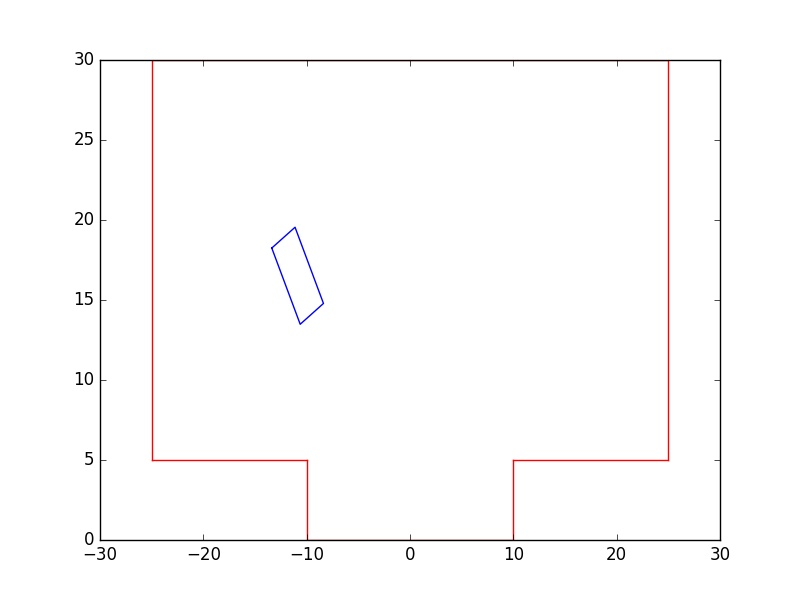
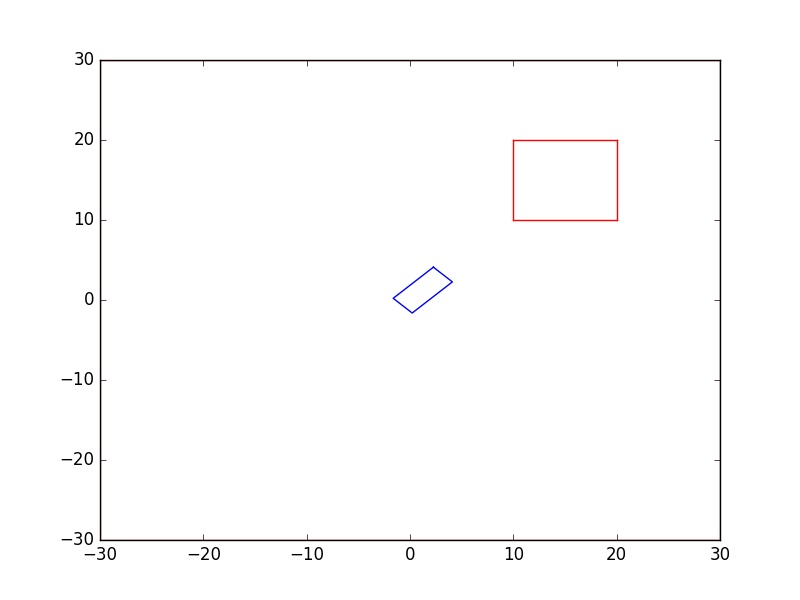
fixed some segfaults; problem with rs path

diff --git a/ReedsShepp/main.cpp b/ReedsShepp/main.cpp
@@ -7,43 +7,58 @@ void TestGridAStar();
 void testCollisionCheck();
 
 int main(int argc, char **argv)
-{ // 1. add obstacle list
+{
+  // testCollisionCheck();
+  // return 0;
+
+  // 1. add obstacle list
   std::vector<Point2D> ObstList;
-  for (int i = -25; i <= 25; ++i)
+
+  for (int i = -30; i <= 30; ++i)
   {
     ObstList.push_back(Point2D(i, 30));
   }
-  for (int i = -10; i <= 10; ++i)
+  for (int i = -30; i <= 30; ++i)
   {
-    ObstList.push_back(Point2D(i, 0));
+    ObstList.push_back(Point2D(30, i));
   }
-  for (int i = -25; i <= -10; ++i)
+  for (int i = -30; i <= 30; ++i)
   {
-    ObstList.push_back(Point2D(i, 5));
+    ObstList.push_back(Point2D(i, -30));
   }
-  for (int i = 10; i <= 25; ++i)
+  for (int i = -30; i <= 30; ++i)
   {
-    ObstList.push_back(Point2D(i, 5));
+    ObstList.push_back(Point2D(-30, i));
   }
-  for (int i = 0; i <= 5; ++i)
+
+  for (int i = 10; i <= 20; ++i)
+  {
+    ObstList.push_back(Point2D(i, 10));
+  }
+  for (int i = 10; i <= 20; ++i)
+  {
+    ObstList.push_back(Point2D(20, i));
+  }
+  for (int i = 10; i <= 20; ++i)
+  {
+    ObstList.push_back(Point2D(i, 20));
+  }
+  for (int i = 10; i <= 20; ++i)
   {
     ObstList.push_back(Point2D(10, i));
-  }
-  for (int i = 0; i <= 5; ++i)
-  {
-    ObstList.push_back(Point2D(-10, i));
   }
 
   // 2. add obstacle lines
   std::vector<std::pair<Point2D, Point2D>> ObstLine;
-  ObstLine.push_back({{-25, 30}, {25, 30}});
-  ObstLine.push_back({{-25, 5}, {-10, 5}});
-  ObstLine.push_back({{-10, 5}, {-10, 0}});
-  ObstLine.push_back({{-10, 0}, {10, 0}});
-  ObstLine.push_back({{10, 0}, {10, 5}});
-  ObstLine.push_back({{10, 5}, {25, 5}});
-  ObstLine.push_back({{-25, 5}, {-25, 30}});
-  ObstLine.push_back({{25, 5}, {25, 30}});
+  ObstLine.push_back({{-30, -30}, {-30, 30}});
+  ObstLine.push_back({{-30, 30}, {30, 30}});
+  ObstLine.push_back({{30, 30}, {30, -30}});
+  ObstLine.push_back({{30, -30}, {-30, -30}});
+
+  ObstLine.push_back({{10, 10}, {20, 10}});
+  ObstLine.push_back({{20, 10}, {20, 20}});
+  ObstLine.push_back({{20, 20}, {10, 20}});
+  ObstLine.push_back({{10, 20}, {10, 10}});
 
   // 3. create vehicle object
   Vehicle veh(3.7, 2.6, 4.5, 1.0, 0.6);
@@ -71,7 +86,7 @@ int main(int argc, char **argv)
   config.MINX = minx - config.EXTEND_AREA;
   config.MAXX = maxx + config.EXTEND_AREA;
   config.MINY = miny - config.EXTEND_AREA;
-  config.MAXY = maxy - config.EXTEND_AREA;
+  config.MAXY = maxy + config.EXTEND_AREA;
 
   config.MINYAW = -M_PI;
   config.MAXYAW = M_PI;
@@ -83,8 +98,8 @@ int main(int argc, char **argv)
   config.H_COST = 10.0;
 
   // 5. set start and end point
-  Eigen::Vector3d start_point(22, 12, M_PI);
-  Eigen::Vector3d end_point(7, 13, -M_PI / 2.0);
+  Eigen::Vector3d start_point(0, 15, 0);
+  Eigen::Vector3d end_point(35, 15, 0);
 
   // 6. find path
   std::vector<std::vector<double>> ObstMap = GridAStar(config.ObstList, {end_point[0], end_point[1]}, config.XY_GRID_RESOLUTION, minx, miny, maxx, maxy);
@@ -144,17 +159,33 @@ void testCollisionCheck()
   // // plot path
   // exportPath(path);
 
-  Eigen::Vector3d pVec(-10, 15, -M_PI / 1.5);
-  std::vector<std::pair<Point2D, Point2D>> ObstLine;
-  ObstLine.push_back({{-25, 30}, {25, 30}});
-  ObstLine.push_back({{-25, 5}, {-10, 5}});
-  ObstLine.push_back({{-10, 5}, {-10, 0}});
-  ObstLine.push_back({{-10, 0}, {10, 0}});
-  ObstLine.push_back({{10, 0}, {10, 5}});
-  ObstLine.push_back({{10, 5}, {25, 5}});
-  ObstLine.push_back({{-25, 5}, {-25, 30}});
-  ObstLine.push_back({{25, 5}, {25, 30}});
+  Eigen::Vector3d pVec(0, 0, -M_PI / 4.0);
 
+  // 1. add obstacle list
+  std::vector<Point2D> ObstList;
+  for (int i = 10; i <= 20; ++i)
+  {
+    ObstList.push_back(Point2D(i, 10));
+  }
+  for (int i = 10; i <= 20; ++i)
+  {
+    ObstList.push_back(Point2D(20, i));
+  }
+  for (int i = 10; i <= 20; ++i)
+  {
+    ObstList.push_back(Point2D(i, 20));
+  }
+  for (int i = 10; i <= 20; ++i)
+  {
+    ObstList.push_back(Point2D(10, i));
+  }
+
+  // 2. add obstacle lines
+  std::vector<std::pair<Point2D, Point2D>> ObstLine;
+  ObstLine.push_back({{10, 10}, {20, 10}});
+  ObstLine.push_back({{20, 10}, {20, 20}});
+  ObstLine.push_back({{20, 20}, {10, 20}});
+  ObstLine.push_back({{10, 20}, {10, 10}});
   // ObstLine.push_back({{-10, -10}, {10, 10}});
   // ObstLine.push_back({{10, 10}, {-8, 8}});
   // ObstLine.push_back({{-8, 8}, {-10, -10}});

diff --git a/ReedsShepp/PathFunction.h b/ReedsShepp/PathFunction.h
@@ -7,9 +7,10 @@
 #include <iostream>
 #include <fstream>
 #include <Vehicle.h>
-RSPath FindRSPath(float x, float y, float phi, Vehicle veh)
+#include <common.h>
+RSPath FindRSPath(double x, double y, double phi, Vehicle veh)
 {
-    float rmin = 5.0; // minimum turning radius
+    double rmin = veh.MIN_CIRCLE; // minimum turning radius
     x = x / rmin;
     y = y / rmin;
     std::vector<int> type = {RS_NOP, RS_NOP, RS_NOP, RS_NOP, RS_NOP};
@@ -31,7 +32,7 @@ RSPath FindRSPath(float x, float y, float phi, Vehicle veh)
     std::vector<RSPath> RSPathVec = {path1, path2, path3, path4, path5};
     // std::cerr << isOk1 << " " << isOk2 << " " << isOk3 << " " << isOk4 << " " << isOk5 << " " << std::endl;
     // std::cerr << path1.totalLength_ << " " << path2.totalLength_ << " " << path3.totalLength_ << " " << path4.totalLength_ << " " << path5.totalLength_ << " " << std::endl;
-    float Lmin = std::numeric_limits<float>::max();
+    double Lmin = std::numeric_limits<float>::max();
 
     for (int i = 0; i < 5; i++)
     {
@@ -57,12 +58,12 @@ enum RS
     LEFT = 1,
     RIGHT = 3
 };
-std::vector<float> linspace(float start, float end, int size = 100)
+std::vector<float> linspace(double start, double end, int size = 100)
 {
     // std::cerr << start << " " << end << std::endl;
     std::vector<float> res;
-    float diff = end - start;
-    float step = diff / (1.0 * size);
+    double diff = end - start;
+    double step = diff / (1.0 * size);
 
     for (int i = 0; i < size; i++)
     {
@@ -70,7 +71,7 @@ std::vector<float> linspace(float start, float end, int size = 100)
     }
     return res;
 }
-void exportPath(RSPath path)
+void exportPath(RSPath path, Vehicle veh, Eigen::Vector3d start_point)
 {
 
     std::vector<int> type = path.type_;
@@ -79,8 +80,8 @@ void exportPath(RSPath path)
     {
         // std::cerr << s << std::endl;
     }
-    std::vector<float> pvec = {0.0, 0.0, 0.0};
-    float rmin = 5.0; // minimum turning radius
+    std::vector<double> pvec = {start_point[0], start_point[1], start_point[2]};
+    double rmin = veh.MIN_CIRCLE; // minimum turning radius
 
     const int const_straight = RS_STRAIGHT;
     const int const_left = RS_LEFT;
@@ -94,8 +95,8 @@ void exportPath(RSPath path)
         case RS::STRAIGHT:
         {
 
-            float theta = pvec[2];
-            float dl = rmin * seg[i];
+            double theta = pvec[2];
+            double dl = rmin * seg[i];
             std::vector<float> dvec_x = linspace(pvec[0], pvec[0] + dl * cos(theta));
             std::vector<float> dvec_y = linspace(pvec[1], pvec[1] + dl * sin(theta));
 
@@ -120,11 +121,11 @@ void exportPath(RSPath path)
         case RS::LEFT:
         {
 
-            float theta = pvec[2];
-            float dtheta = seg[i];
+            double theta = pvec[2];
+            double dtheta = seg[i];
 
-            float cenx = pvec[0] - rmin * sin(theta);
-            float ceny = pvec[1] + rmin * cos(theta);
+            double cenx = pvec[0] - rmin * sin(theta);
+            double ceny = pvec[1] + rmin * cos(theta);
 
             std::vector<float> tvec = linspace(theta - M_PI / 2.0, theta - M_PI / 2.0 + dtheta);
 
@@ -141,7 +142,7 @@ void exportPath(RSPath path)
             pvec[1] = *(dvec_y.end() - 1);
             pvec[2] += dtheta;
 
-            float dl = dtheta;
+            double dl = dtheta;
             if (dl > 0)
             {
                 full_path_direction[i] = 1;
@@ -156,11 +157,11 @@ void exportPath(RSPath path)
 
         case RS::RIGHT:
         {
-            float theta = pvec[2];
-            float dtheta = -seg[i];
+            double theta = pvec[2];
+            double dtheta = -seg[i];
 
-            float cenx = pvec[0] + rmin * sin(theta);
-            float ceny = pvec[1] - rmin * cos(theta);
+            double cenx = pvec[0] + rmin * sin(theta);
+            double ceny = pvec[1] - rmin * cos(theta);
 
             std::vector<float> tvec = linspace(theta + M_PI / 2.0, theta + M_PI / 2.0 + dtheta);
 
@@ -177,7 +178,7 @@ void exportPath(RSPath path)
             pvec[1] = *(dvec_y.end() - 1);
             pvec[2] += dtheta;
 
-            float dl = -dtheta;
+            double dl = -dtheta;
 
             if (dl > 0)
             {

diff --git a/ReedsShepp/HybridAStar.h b/ReedsShepp/HybridAStar.h
@@ -33,6 +33,7 @@ double mod2pi(double x)
 
 bool CalcIdx(double x, double y, double theta, Configuration cfg, int &xidx, int &yidx, int &thidx)
 {
+
     double gres = cfg.XY_GRID_RESOLUTION;
     double yawres = cfg.YAW_GRID_RESOLUTION;
     xidx = std::ceil((x - cfg.MINX) / gres);
@@ -40,6 +41,7 @@ bool CalcIdx(double x, double y, double theta, Configuration cfg, int &xidx, int
     theta = mod2pi(theta);
     thidx = std::ceil((theta - cfg.MINYAW) / yawres);
     bool isok = true;
+    std::cerr << xidx << " " << yidx << std::endl;
     if (xidx <= 0 || xidx > std::ceil((cfg.MAXX - cfg.MINX) / gres))
     {
         isok = false;
@@ -53,6 +55,7 @@ bool CalcIdx(double x, double y, double theta, Configuration cfg, int &xidx, int
     {
         isok = false;
     }
+
     return isok;
 }
 
@@ -89,7 +92,7 @@ bool AnalysticExpansion(Eigen::Vector3d Start, Eigen::Vector3d End, Vehicle veh,
     std::vector<std::pair<Point2D, Point2D>> obstline = cfg.ObstLine;
 
     rspath = FindRSPath(pos_x, pos_y, pvec[2], veh);
-
+    exportPath(rspath, veh, Start);
     std::vector<int> types = rspath.type_;
     double t = rmin * rspath.t_;
     double u = rmin * rspath.u_;
@@ -142,6 +145,7 @@ bool AnalysticExpansion(Eigen::Vector3d Start, Eigen::Vector3d End, Vehicle veh,
             if (idx % 5 == 0)
             {
                 Eigen::Vector3d tvec(px, py, pth);
+                // std::cerr << px << " " << py << " " << std::endl;
                 isCollision = VehicleCollisionCheck(tvec, obstline, veh);
                 if (isCollision)
                 {
@@ -492,6 +496,7 @@ void HybridAStar(Eigen::Vector3d Start, Eigen::Vector3d End, Vehicle veh, Config
     xidx = yidx = thidx = 0;
 
     bool isok = CalcIdx(Start[0], Start[1], Start[2], cfg, xidx, yidx, thidx);
+
     Node tnode;
     if (isok)
     {
@@ -520,6 +525,7 @@ void HybridAStar(Eigen::Vector3d Start, Eigen::Vector3d End, Vehicle veh, Config
         bool isok2 = AnalysticExpansion(Eigen::Vector3d(wknode.X, wknode.Y, wknode.Theta), End, veh, cfg, rspath);
         if (isok2)
         {
+            std::cerr << "rs path " << std::endl;
             int idx2 = -1;
             inNodes(wknode, Close, idx2);
             Close.push_back(wknode);
@@ -528,6 +534,7 @@ void HybridAStar(Eigen::Vector3d Start, Eigen::Vector3d End, Vehicle veh, Config
             getFinalPath(rspath, Close, veh, cfg, x_vec, y_vec, th_vec, D_vec, delta_vec);
             break;
         }
+        std::cerr << "not rs path " << std::endl;
         Update(wknode, Open, Close, veh, cfg);
     }
 }
